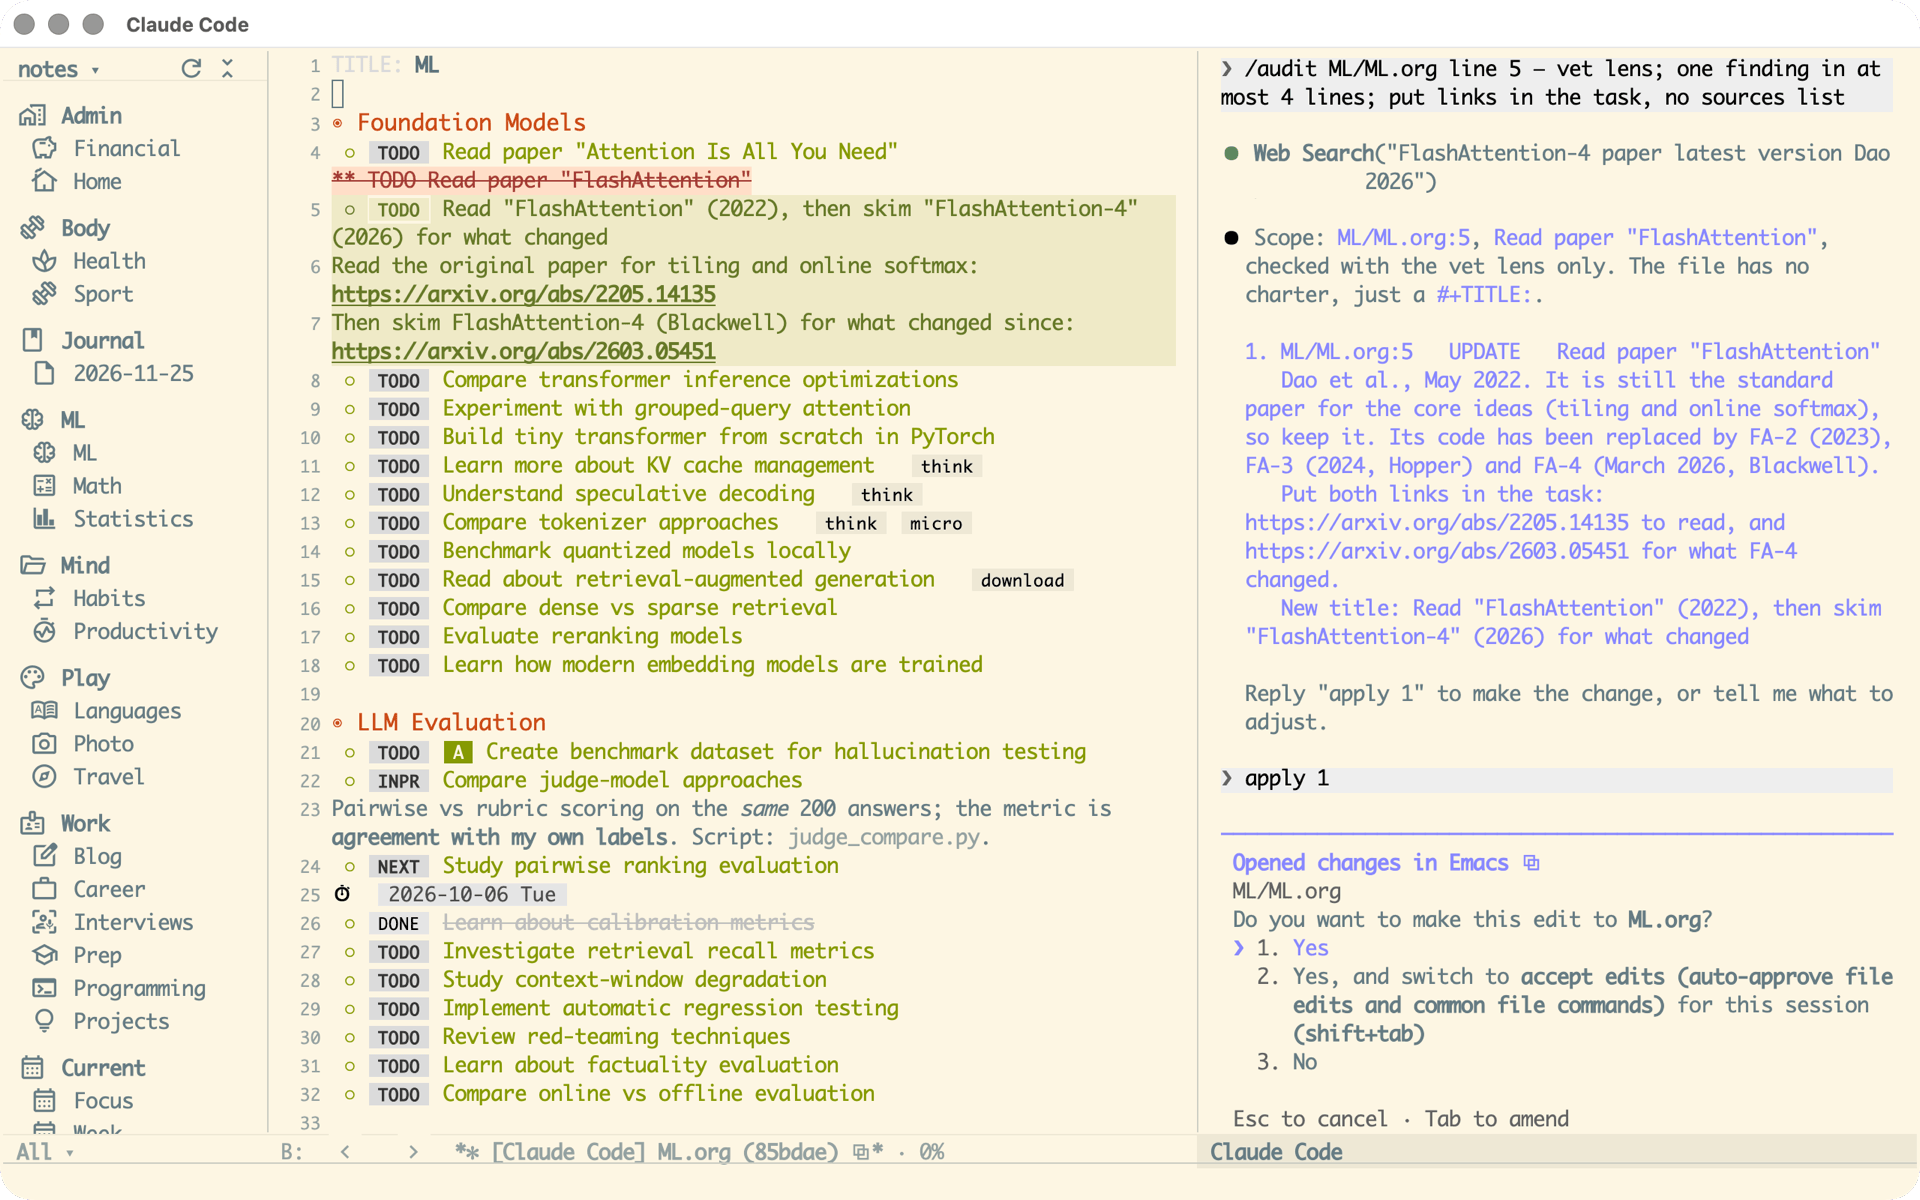
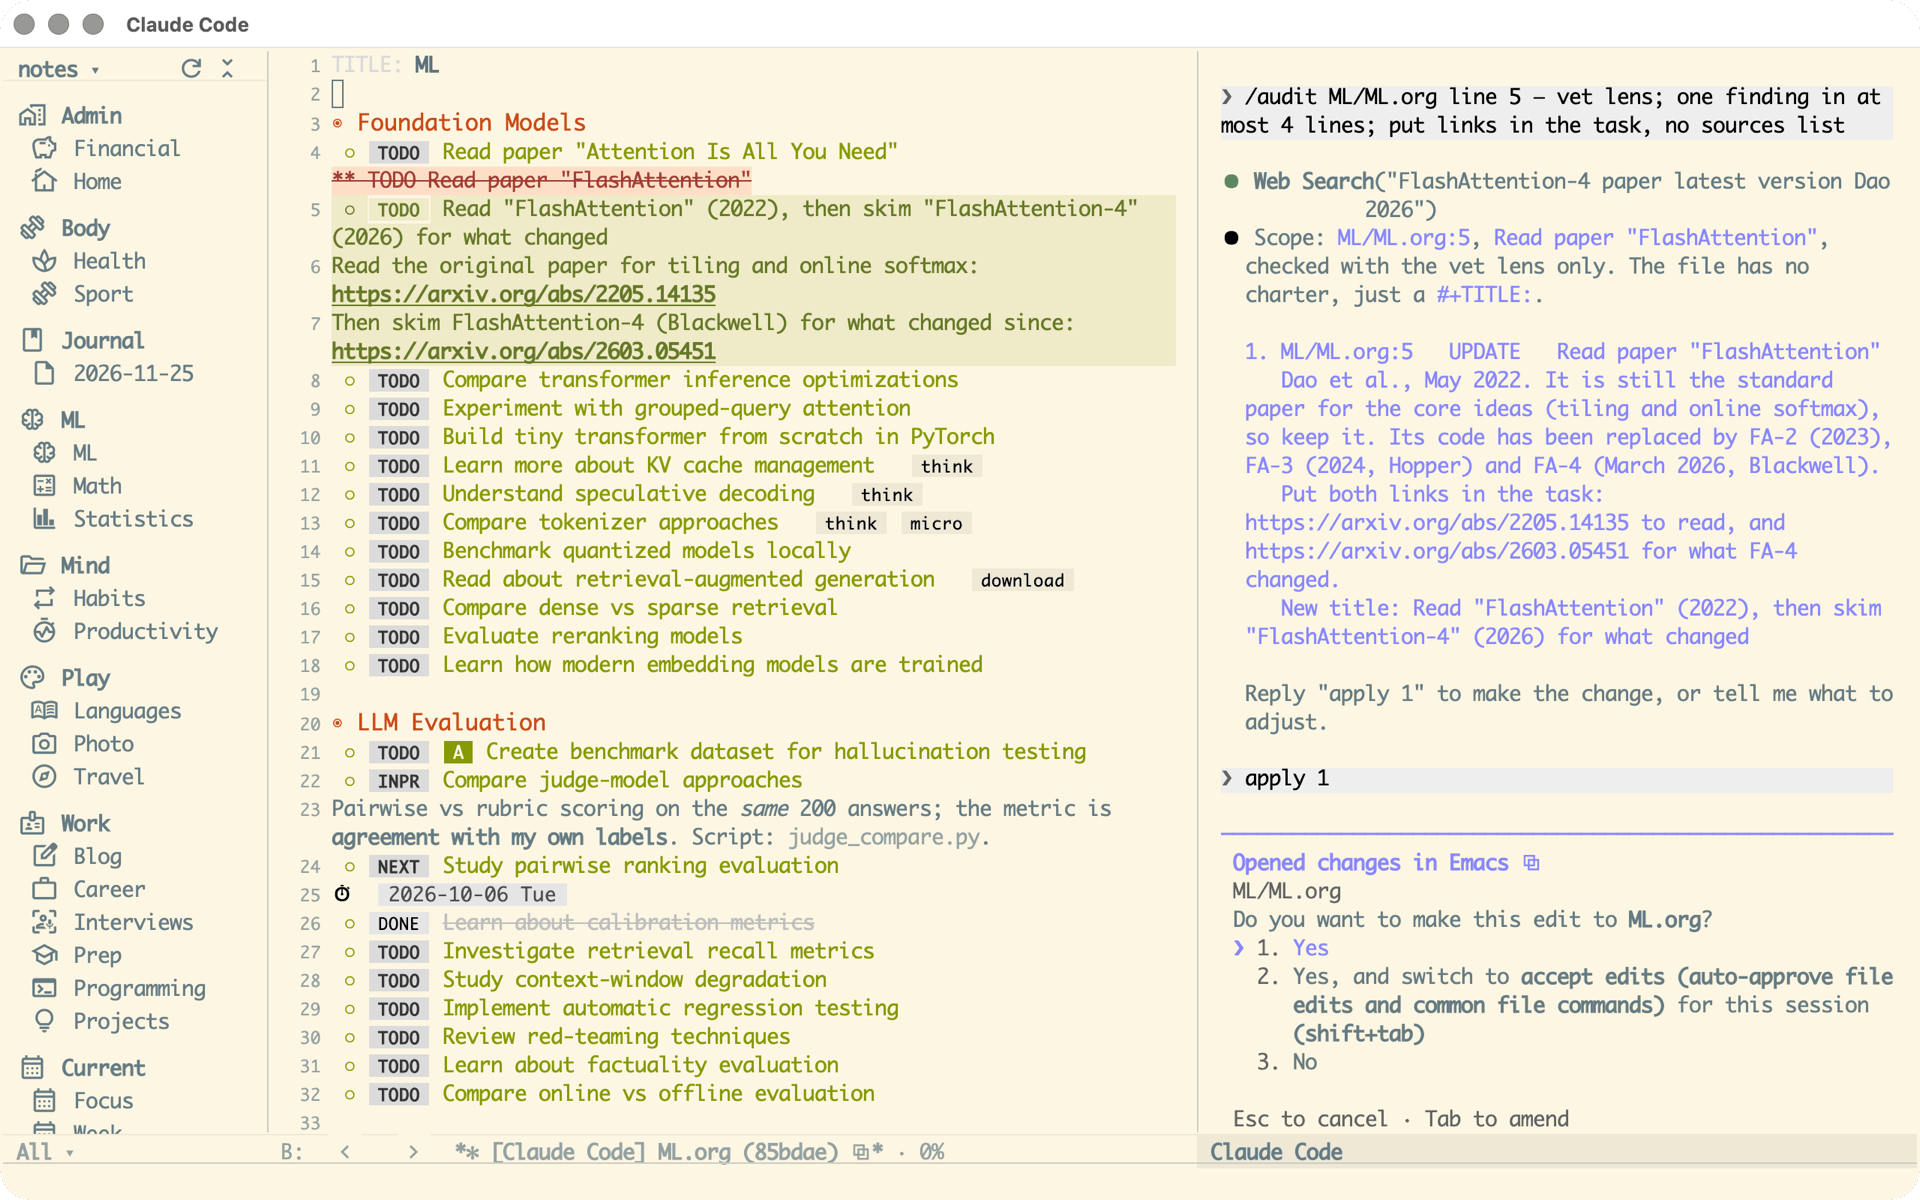
Give the lead screenshot's prompt a line of air
- The assistant panel starts one line lower; the blank line between the web search and the reply is closed to make room.
- compose_lead_screenshot.py makes that trade itself when the prompt would otherwise sit flush against the top.

Changed region(s): [[0.625, 0.0308, 1.0, 0.185]]

diff --git a/scripts/compose_lead_screenshot.py b/scripts/compose_lead_screenshot.py
@@ -82,17 +82,22 @@ def fits(parts):
 parts = next((p for p in ([prompt, w_, reply, apply] for w_ in search_blocks()) if fits(p)),
              [prompt, reply, apply])
 heights = [y1 - y0 for _, (y0, y1) in parts]
-total = sum(heights) + line * len(parts)
-start = dialog_top - total
 if not fits(parts):
-    sys.exit(f"does not fit: needs {total}px above the dialog, has {dialog_top - gb['top']}")
+    sys.exit(f"does not fit above the dialog ({dialog_top - gb['top']}px)")
+gaps = [line] * len(parts)
+# With the search kept and the prompt flush against the top, close the blank
+# line between the search and the reply instead: a line of air above the prompt
+# reads better than a prompt jammed under the title bar.
+if len(parts) == 4 and dialog_top - sum(heights) - sum(gaps) - gb["top"] < line:
+    gaps[1] = 0
+start = dialog_top - sum(heights) - sum(gaps)
 print(f"free space above the prompt: {start - gb['top']}px ({(start - gb['top']) // line} lines)")
 cmd = ["magick", b_png, "-fill", "#FDF6E3", "-draw",
        f"rectangle {x0},{gb['top']} {x0 + w - 1},{dialog_top - 1}"]
 y = start
-for (png, (y0, y1)), h in zip(parts, heights):
+for (png, (y0, y1)), h, gap in zip(parts, heights, gaps):
     cmd += ["(", png, "-crop", f"{w}x{h}+{x0}+{y0}", "+repage", ")",
             "-geometry", f"+{x0}+{y}", "-composite"]
-    y += h + line
+    y += h + gap
 subprocess.run(cmd + [out], check=True)
 subprocess.run(["pngquant", "--force", "--skip-if-larger", "--output", out, "256", out])
